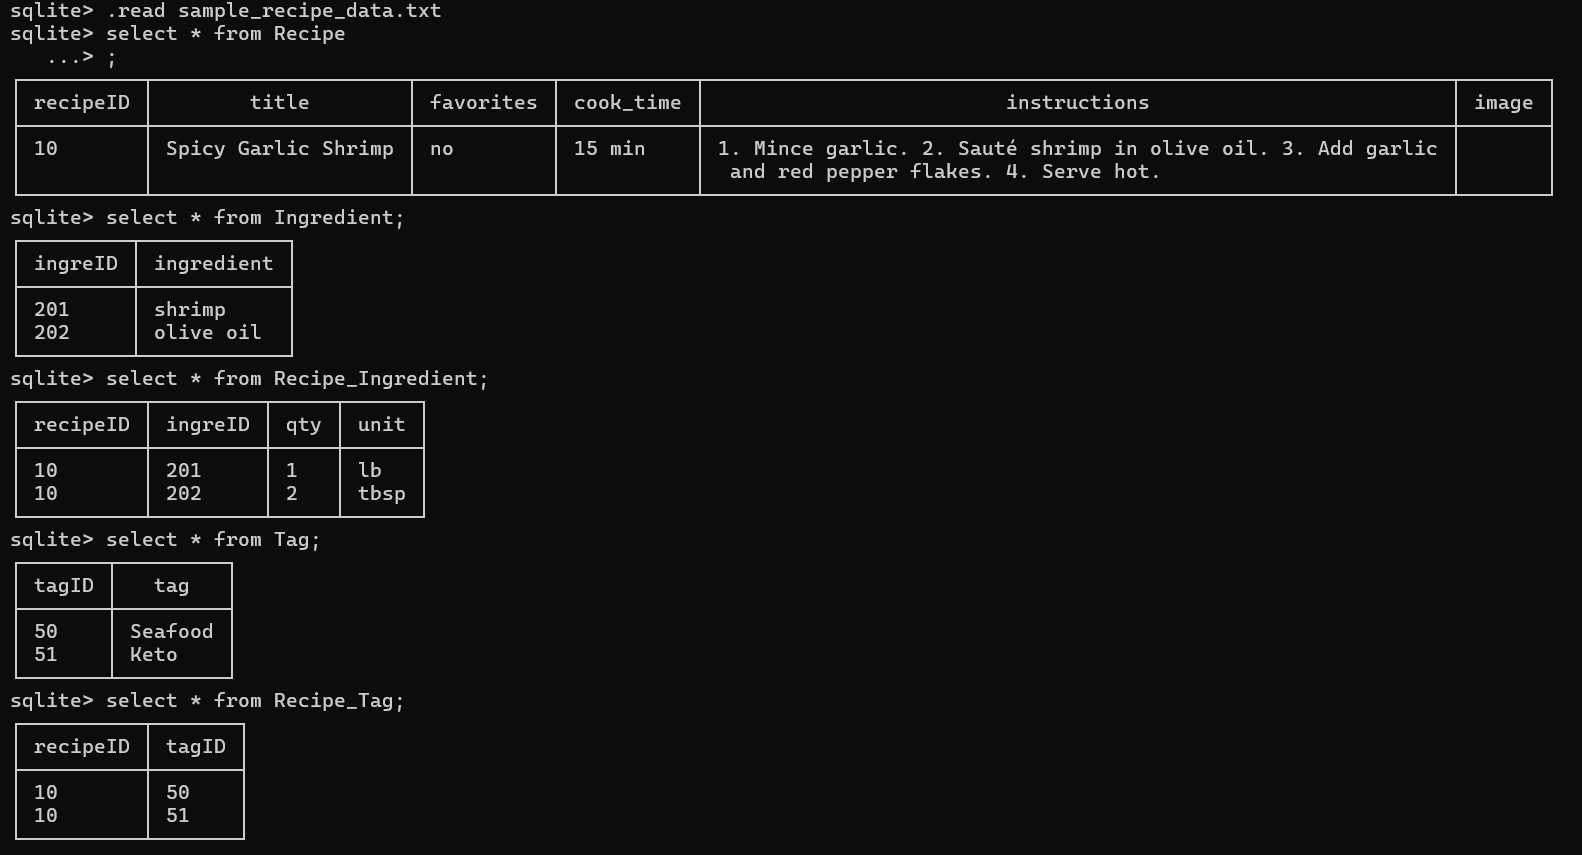
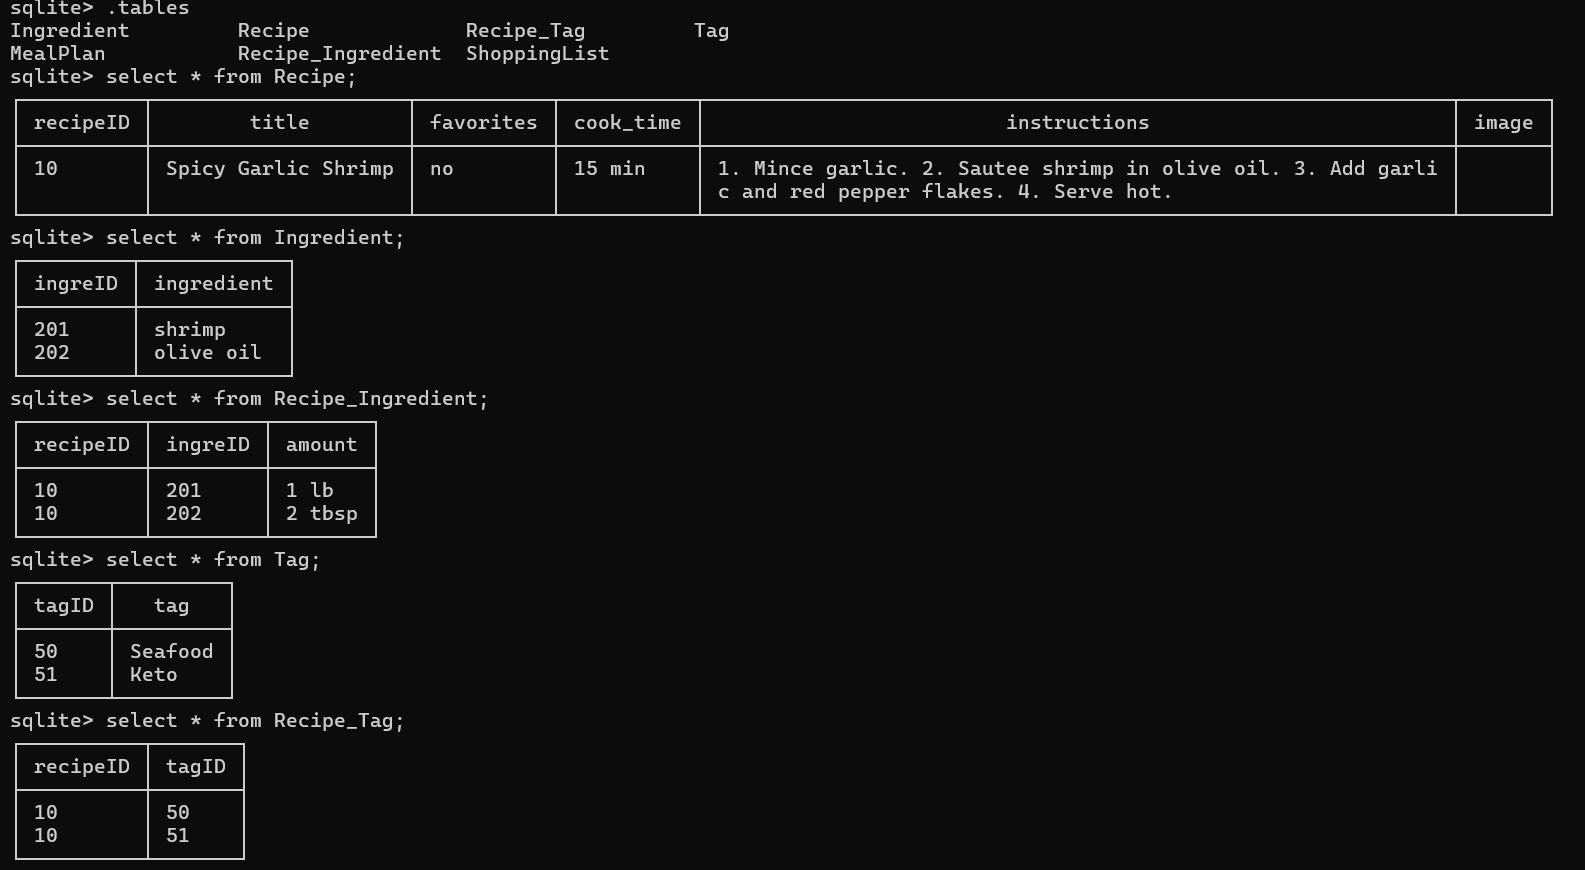
Refactor: Add 'input_item' to ShoppingList; Merge 'qty' and 'unit' in Ingredient into one column 'amount'

Changed region(s): [[0.0, 0.0, 0.9912, 1.0], [0.9602, 0.2129, 0.9912, 0.2433], [0.4336, 0.0304, 0.4646, 0.0608]]

diff --git a/db/Relation_Schema.md b/db/Relation_Schema.md
@@ -2,15 +2,15 @@
 Recipe (<ins>recipeID</ins>, title, favorites, cook_time, instructions, image) <br>
 Ingredient (<ins>ingreID</ins>, ingredient)
 <br>
-Recipe_Ingredient (<ins>recipeID, ingreID</ins>, qty, unit)
+Recipe_Ingredient (<ins>recipeID, ingreID</ins>, amount)
 <br>
 Tag (<ins>tagID</ins>, tag)
 <br>
 Recipe_Tag (<ins>recipeID, tagID</ins>)
 <br>
-MealPlan (<ins>mID</ins>, week_date, day, mealTime, recipeID)
+MealPlan (<ins>mID</ins>, week_date, day, meal_type, recipeID)
 <br>
-ShoppingList (<ins>itemID</ins>, recipeID, ingreID, checked)
+ShoppingList (<ins>itemID</ins>, recipeID, ingreID, input_item, checked)
 
 <hr>
 
@@ -28,10 +28,11 @@ ShoppingList [recipeID, ingreID] $\subseteq$ Recipe_Ingredient [recipeID, ingreI
 
 <hr>
 <br>
-Note for backend logic :
+Note:
 
 - `week_date` in **MealPlan** is the start date of the week, which is helpful to display the meals history.
-- `day` in **MealPlan** is referred to Monday, Tuesday, ... ; `mealTime` is referred to Breakfast, Lunch, and Dinner
+- `day` in **MealPlan** is referred to Monday, Tuesday, ... ; `meal_type` is referred to Breakfast, Lunch, and Dinner
 - `ingredient` and `tag` can only be added if there's not such in the display, i.e. these attributes should be unique to reduce redundancy.
-- The attribute `image` in **Recipe** is the *name* of the file after being renamed by `uuid`, and the file will then be stored in `static/uploads/` folder locally.
-- `checked` in **ShoppingList** indicates if it should be removed from the database. if `checked==yes`, the tuple will be removed. 
+- The attribute `image` in **Recipe** is the *filename* after being renamed by `uuid`, and the file will then be stored in `static/uploads/` folder locally.
+- `checked` in **ShoppingList** indicates if it should be removed from the database. if `checked==yes`, it'll be displayed as a strikethrough and the tuple will be removed in the database when users refresh the page.
+
